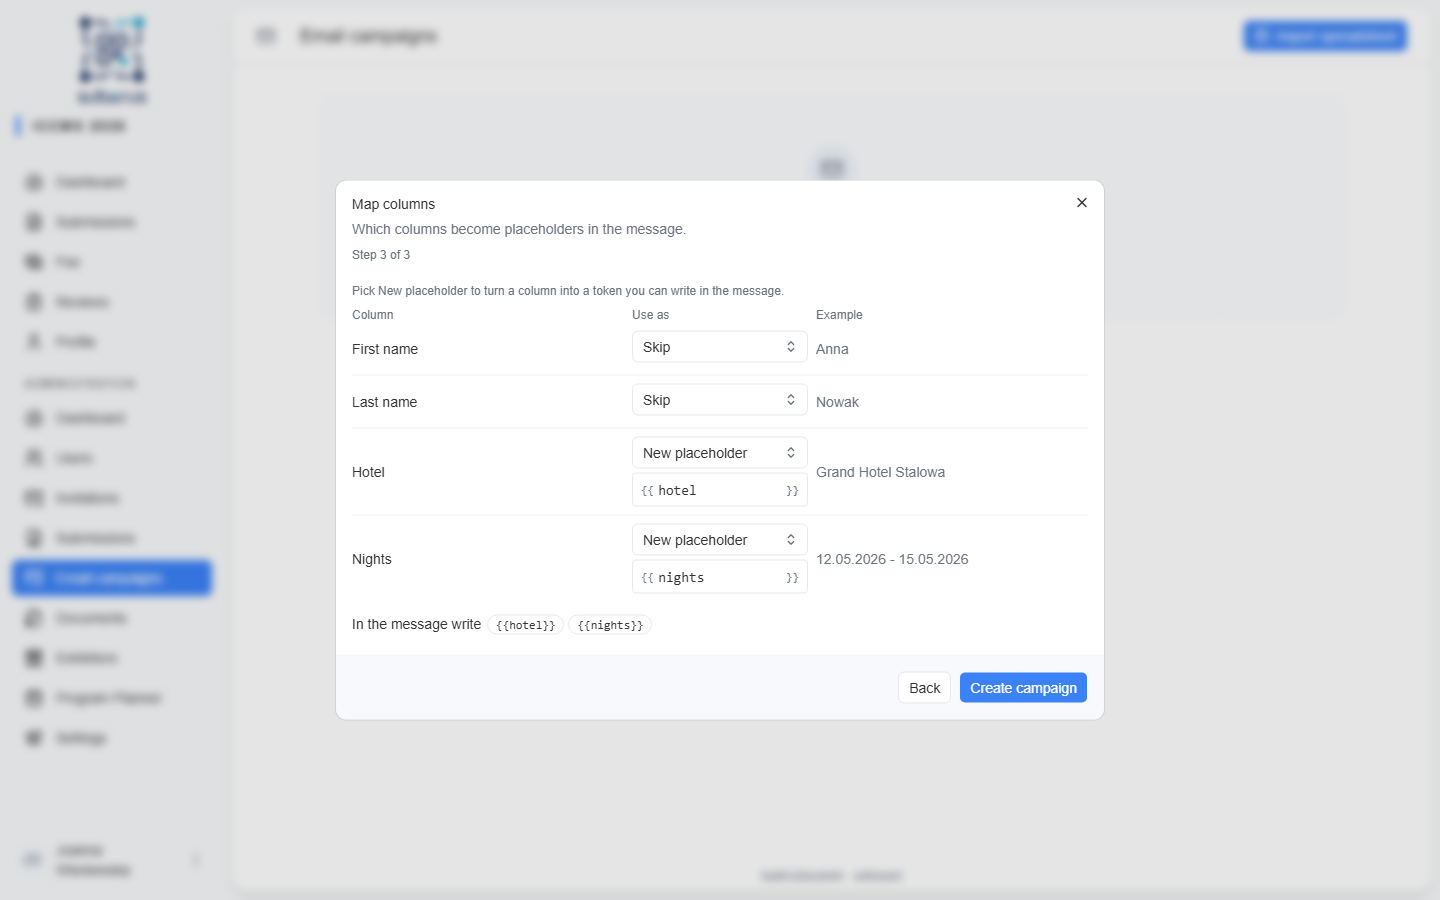
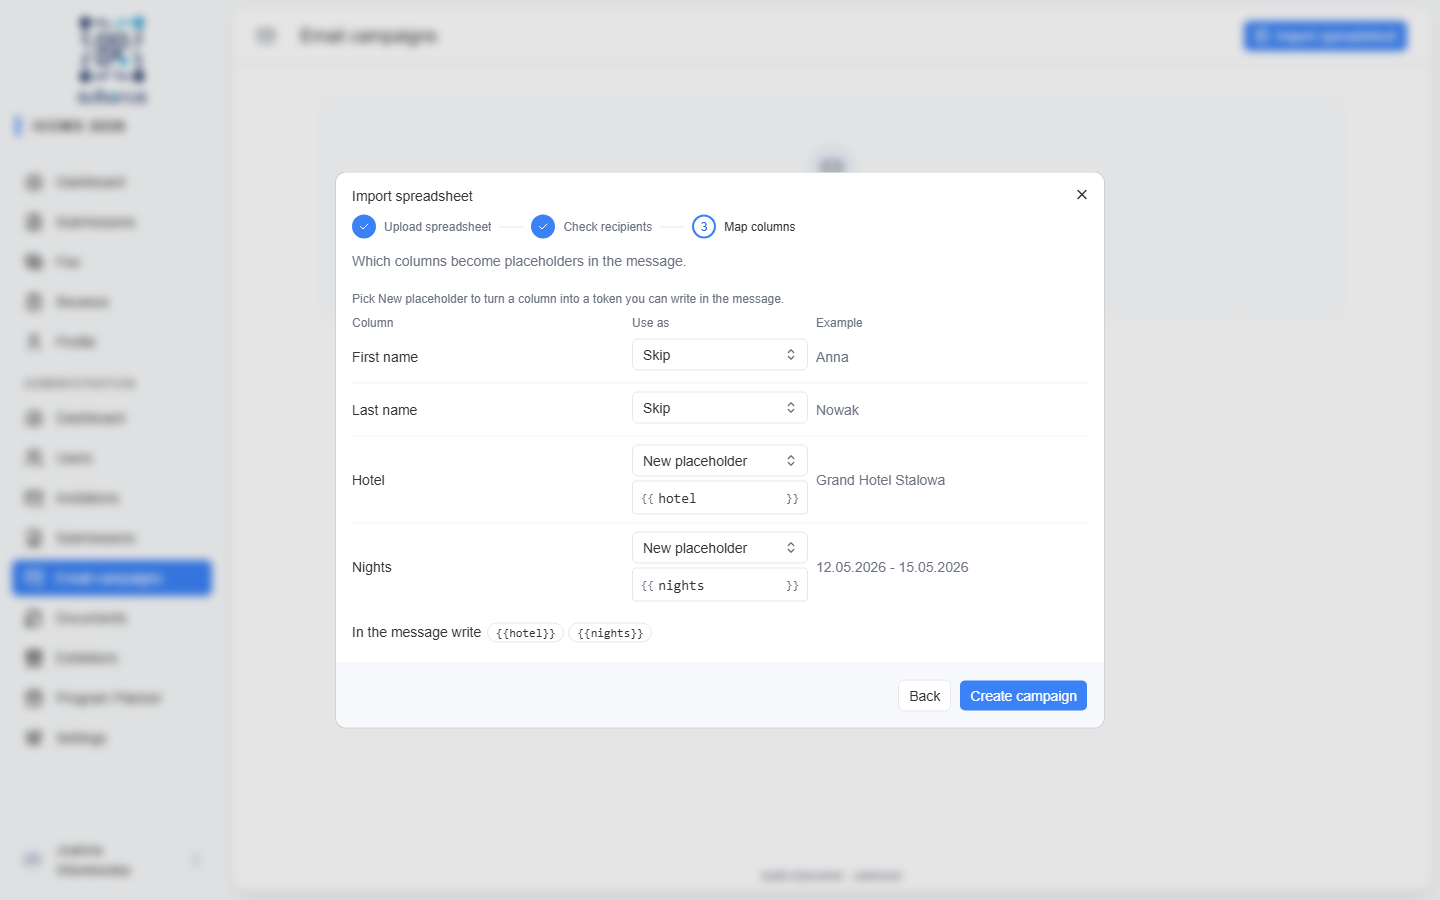
refactor(ui): share the step rail between registration and the wizard
The registration sidebar owned the only visual stepper in the app. It
moves to shared/ui as StepIndicator with a horizontal orientation and a
tone for coloured panels, and the spreadsheet wizard shows it instead of
a "Step n of 3" line. Registration keeps its exact look, including the
faded completed steps.

Claude-Session: https://claude.ai/code/session_01Jt3aq6DwNcR66gRmeRRLSP

diff --git a/src/shared/ui/step-indicator.tsx b/src/shared/ui/step-indicator.tsx
@@ -1,0 +1,99 @@
+import { IconCheck } from "@tabler/icons-react";
+import { cn } from "@/shared/lib/utils";
+
+export interface Step {
+	id: number;
+	title: string;
+}
+
+interface StepIndicatorProps {
+	steps: readonly Step[];
+	currentStep: number;
+	orientation?: "vertical" | "horizontal";
+	/** `onPrimary` for a coloured panel, where the palette is inverted. */
+	tone?: "default" | "onPrimary";
+	className?: string;
+}
+
+const CIRCLE = {
+	default: {
+		done: "border-primary bg-primary text-primary-foreground",
+		current: "border-primary text-primary-ink",
+		upcoming: "border-muted-foreground/40 text-muted-foreground",
+	},
+	onPrimary: {
+		done: "border-primary-foreground bg-primary-foreground text-primary-ink",
+		current: "border-primary-foreground bg-transparent",
+		upcoming: "border-primary-foreground/50 bg-transparent",
+	},
+} as const;
+
+export function StepIndicator({
+	steps,
+	currentStep,
+	orientation = "vertical",
+	tone = "default",
+	className,
+}: StepIndicatorProps) {
+	const horizontal = orientation === "horizontal";
+
+	return (
+		<ol
+			className={cn(
+				horizontal ? "flex items-center gap-2" : "space-y-2",
+				className,
+			)}
+		>
+			{steps.map((step, index) => {
+				const state =
+					step.id < currentStep
+						? "done"
+						: step.id === currentStep
+							? "current"
+							: "upcoming";
+				return (
+					<li
+						aria-current={state === "current" ? "step" : undefined}
+						className={cn(
+							"flex items-center gap-2 transition-opacity duration-300",
+							horizontal && "min-w-0",
+							tone === "onPrimary" && state !== "current" && "opacity-50",
+						)}
+						key={step.id}
+					>
+						<span
+							className={cn(
+								"flex size-6 shrink-0 items-center justify-center rounded-full border-2 text-xs font-medium transition-all",
+								CIRCLE[tone][state],
+							)}
+						>
+							{state === "done" ? <IconCheck className="size-3" /> : step.id}
+						</span>
+						<span
+							className={cn(
+								"truncate text-xs font-medium",
+								horizontal && "hidden sm:inline",
+								tone === "default" &&
+									state !== "current" &&
+									"text-muted-foreground",
+							)}
+						>
+							{step.title}
+						</span>
+						{horizontal && index < steps.length - 1 && (
+							<span
+								aria-hidden
+								className={cn(
+									"h-px w-6 shrink-0",
+									tone === "onPrimary"
+										? "bg-primary-foreground/40"
+										: "bg-border",
+								)}
+							/>
+						)}
+					</li>
+				);
+			})}
+		</ol>
+	);
+}

diff --git a/src/features/auth/components/auth-sidebar.tsx b/src/features/auth/components/auth-sidebar.tsx
@@ -1,10 +1,5 @@
-import { IconCheck } from "@tabler/icons-react";
 import { cn } from "@/shared/lib/utils";
-
-interface Step {
-	id: number;
-	title: string;
-}
+import { type Step, StepIndicator } from "@/shared/ui/step-indicator";
 
 interface AuthSidebarProps {
 	steps?: readonly Step[];
@@ -51,36 +46,12 @@ export function AuthSidebar({
 			</div>
 
 			{steps && steps.length > 0 ? (
-				<div className="relative z-10 space-y-2">
-					{steps.map((step) => (
-						<div
-							className={cn(
-								"flex items-center gap-2 transition-opacity duration-300",
-								step.id === currentStep ? "opacity-100" : "opacity-50",
-							)}
-							key={step.id}
-						>
-							<div
-								className={cn(
-									"flex size-6 items-center justify-center rounded-full border-2 text-xs font-medium transition-all",
-									step.id < currentStep &&
-										"border-primary-foreground bg-primary-foreground text-primary-ink",
-									step.id === currentStep &&
-										"border-primary-foreground bg-transparent",
-									step.id > currentStep &&
-										"border-primary-foreground/50 bg-transparent",
-								)}
-							>
-								{step.id < currentStep ? (
-									<IconCheck className="size-3" />
-								) : (
-									step.id
-								)}
-							</div>
-							<span className="text-xs font-medium">{step.title}</span>
-						</div>
-					))}
-				</div>
+				<StepIndicator
+					className="relative z-10"
+					currentStep={currentStep}
+					steps={steps}
+					tone="onPrimary"
+				/>
 			) : (
 				conferenceSubtitle && (
 					<p className="text-primary-foreground/90 relative z-10 text-sm font-medium wrap-break-word">

diff --git a/src/features/bulk-email/components/sheet-wizard/sheet-wizard-dialog.tsx b/src/features/bulk-email/components/sheet-wizard/sheet-wizard-dialog.tsx
@@ -6,17 +6,18 @@ import {
 	DialogHeader,
 	DialogTitle,
 } from "@/shared/ui/dialog";
+import { StepIndicator } from "@/shared/ui/step-indicator";
 import { MappingStep } from "./mapping-step";
 import { MatchStep } from "./match-step";
 import { StepFooter } from "./step-footer";
 import { UploadStep } from "./upload-step";
 import { useSheetWizard } from "./use-sheet-wizard";
 
-const TITLES = {
-	upload: "Upload spreadsheet",
-	match: "Check recipients",
-	mapping: "Map columns",
-} as const;
+const STEPS = [
+	{ id: 1, title: "Upload spreadsheet" },
+	{ id: 2, title: "Check recipients" },
+	{ id: 3, title: "Map columns" },
+] as const;
 
 const DESCRIPTIONS = {
 	upload: "An .xlsx or .xls file with one recipient per row.",
@@ -46,12 +47,14 @@ export function SheetWizardDialog({
 			open={open}
 		>
 			<DialogContent className="sm:max-w-3xl">
-				<DialogHeader>
-					<DialogTitle>{TITLES[state.step]}</DialogTitle>
+				<DialogHeader className="gap-3">
+					<DialogTitle>Import spreadsheet</DialogTitle>
+					<StepIndicator
+						currentStep={wizard.stepIndex}
+						orientation="horizontal"
+						steps={STEPS}
+					/>
 					<DialogDescription>{DESCRIPTIONS[state.step]}</DialogDescription>
-					<p className="text-muted-foreground text-xs font-medium">
-						Step {wizard.stepIndex} of 3
-					</p>
 				</DialogHeader>
 
 				{state.step === "upload" && (
